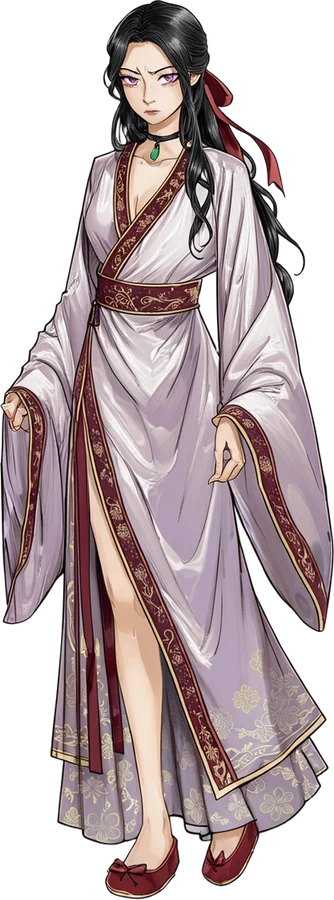
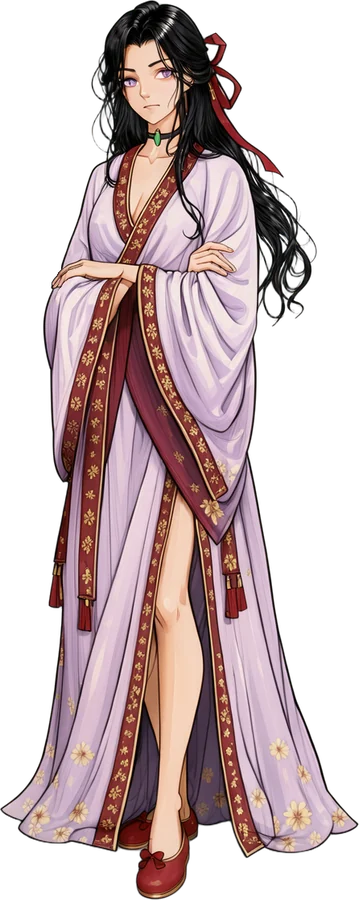
Replace Ri Hwa's anger and smile with the redone, on-model versions
The first pair had drifted from her base attire: a different hem pattern and
the sash tassels gone. The redone renders match the base.

diff --git a/projects/character-panel.html b/projects/character-panel.html
@@ -271,8 +271,8 @@
             <p class="cpk-name">Namgoong Ri Hwa</p>
             <div class="cpk-row cpk-row--3">
             <figure><div class="cpk-tile"><img src="/img/cp-klein/expr-ri-hwa-base.webp" alt="Namgoong Ri Hwa, base pose" loading="lazy" width="379" height="900" /></div><figcaption>Base</figcaption></figure>
-            <figure><div class="cpk-tile"><img src="/img/cp-klein/expr-ri-hwa-anger.webp" alt="Namgoong Ri Hwa, anger" loading="lazy" width="334" height="900" /></div><figcaption>Anger</figcaption></figure>
-            <figure><div class="cpk-tile"><img src="/img/cp-klein/expr-ri-hwa-smile.webp" alt="Namgoong Ri Hwa, smile" loading="lazy" width="346" height="900" /></div><figcaption>Smile</figcaption></figure>
+            <figure><div class="cpk-tile"><img src="/img/cp-klein/expr-ri-hwa-anger.webp" alt="Namgoong Ri Hwa, anger" loading="lazy" width="359" height="900" /></div><figcaption>Anger</figcaption></figure>
+            <figure><div class="cpk-tile"><img src="/img/cp-klein/expr-ri-hwa-smile.webp" alt="Namgoong Ri Hwa, smile" loading="lazy" width="349" height="900" /></div><figcaption>Smile</figcaption></figure>
             </div>
           </div>
           <div>
